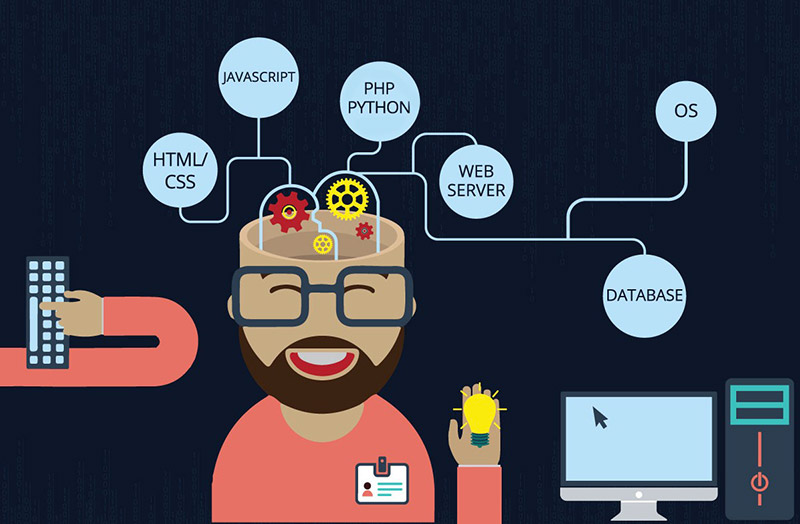
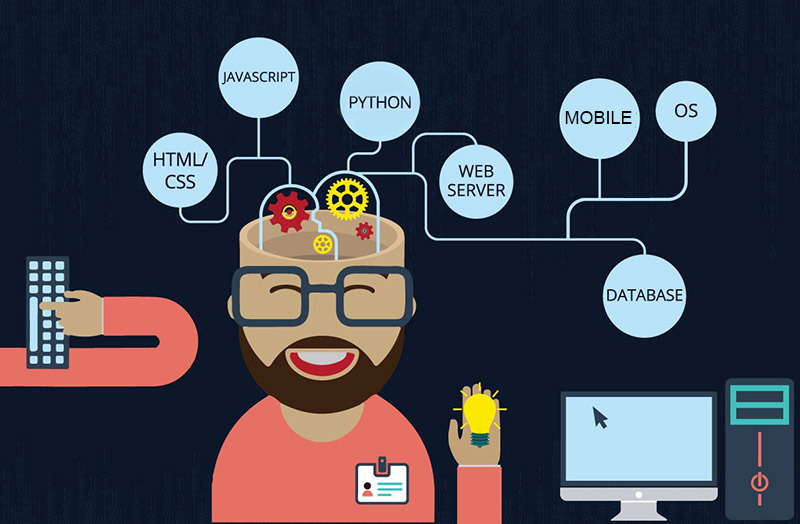
editing blog posts and fixing about

diff --git a/content/a-propos.md b/content/a-propos.md
@@ -11,16 +11,19 @@ aliases = ["about-us","about-hugo","contact"]
 ## Qui suis-je ?
 
 Ingénieur spécialisé en Architecture des systèmes d'information, je conçois et réalise des applications web et mobiles **pérennes, structurées et maintenables** depuis 2011 et, plus récemment en freelance, depuis 2018. 
+
+Je suis défenseur de l'écologie et j'oeuvre au quotidien pour optimiser mes développements en réduisant leur empreinte sur la planète tout en répondant parfaitement au cahier des charges! Un ingénieur se doit de répondre aux défis de son temps. L'écologie, le respect de la nature et des espèces vivantes, l'éthique et la morale sont pour moi des sujets de premier plan.
       
 Vivant à Rouen et ne disposant pas de moyen de transport autre que mon fidèle vélo, je réalise mes prestations principalement à distance. Des points physiques réguliers restent cependant possibles 😀
 
 ## Ma stack
 
-Au fil des années, j'ai développé une expérience certaine sur les langages **Python** et **PHP** et plus spécifiquement des frameworks **Django** et **Symfony/Laravel**. Je réalise aussi des applications mobiles à l'aide du nouveau framework montant de Google : **Flutter**.
+Au fil des années, j'ai développé une expérience certaine sur les langages **Python** et **Javascript** et plus spécifiquement côté backend sur **Django/Flask** et **Express** et côté frontend sur **Vue.js**. Je réalise aussi des applications mobiles à l'aide du nouveau framework montant de Google : **Flutter**. Plus récemment, j'ai obtenu une certification **Swift** me permettant de développer des compétences sur les applications natives iOS.
+
 
 ## Ma vision
 
-Mon métier est une réelle passion et c'est cette passion qui anime mes journées et me pousse à donner le meilleur de moi même pour vos projets. 
+Mon métier est une réelle passion et c'est cette passion qui anime mes journées et me pousse à donner le meilleur de moi même pour vos projets. Je suis à même de développer des projets de bout en bout de la simple API au site monolithe en passant par des micro-services ou une application mobile. Adepte de bonnes pratiques, j'essaie de mettre en place (lorsque cela est possible) des principes de TDD (Test Driven Development) gage de qualité de mes développements.
   
   
 Comme disait Léonard de Vinci :   

diff --git a/content/projects/migrate-from-jekyll.md b/content/projects/migrate-from-jekyll.md
@@ -1,4 +1,5 @@
 ---
+published: false
 title: Migrate to Hugo from Jekyll
 date: 2014-03-10
 categories: ["Uncategorized"]

diff --git a/content/articles/hugoisforlovers.md b/content/articles/hugoisforlovers.md
@@ -1,4 +1,5 @@
 +++
+published = false
 title = "Getting Started with Hugo"
 description = ""
 type = ["posts","post"]

diff --git a/content/articles/goisforlovers.md b/content/articles/goisforlovers.md
@@ -1,4 +1,5 @@
 +++
+published = false
 title = "(Hu)go Template Primer"
 description = ""
 type = ["posts","post"]

diff --git a/content/articles/goisforlovers.fr.md b/content/articles/goisforlovers.fr.md
@@ -1,4 +1,5 @@
 +++
+published = false
 categories = ["Go"]
 date = "2014-04-02"
 description = ""

diff --git a/content/articles/creating-a-new-theme.md b/content/articles/creating-a-new-theme.md
@@ -1,4 +1,5 @@
 ---
+published: false
 author:
   name: "Jérôme Desseaux"
 date: 2018-09-28

diff --git a/content/articles/migrate-from-jekyll.md b/content/articles/migrate-from-jekyll.md
@@ -1,4 +1,5 @@
 ---
+published: false
 author:
   name: "Hugo Authors"
 date: 2014-03-10
